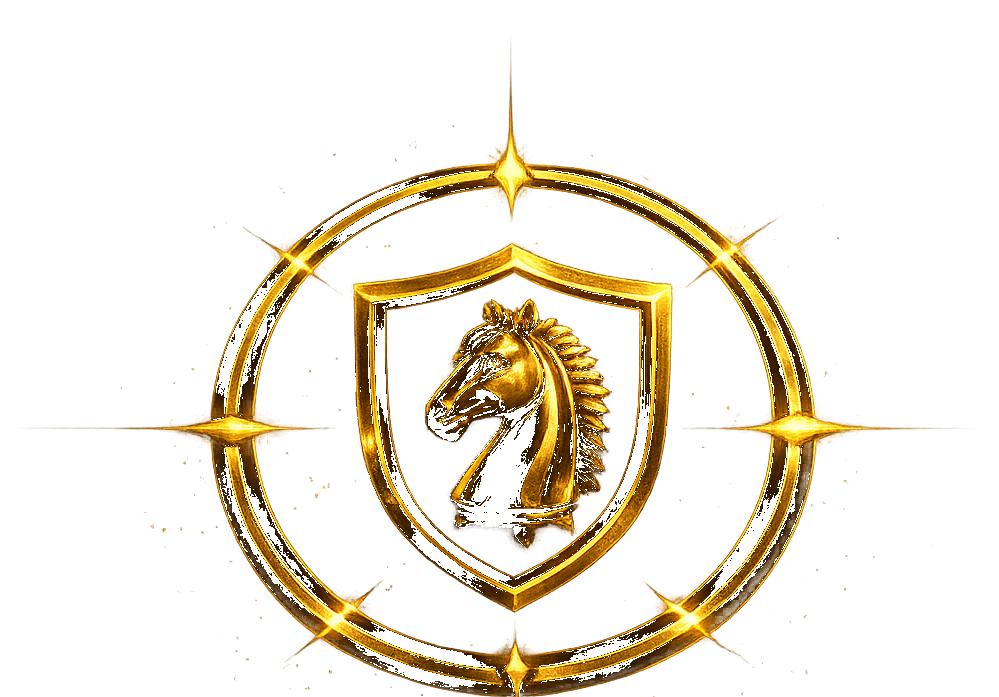
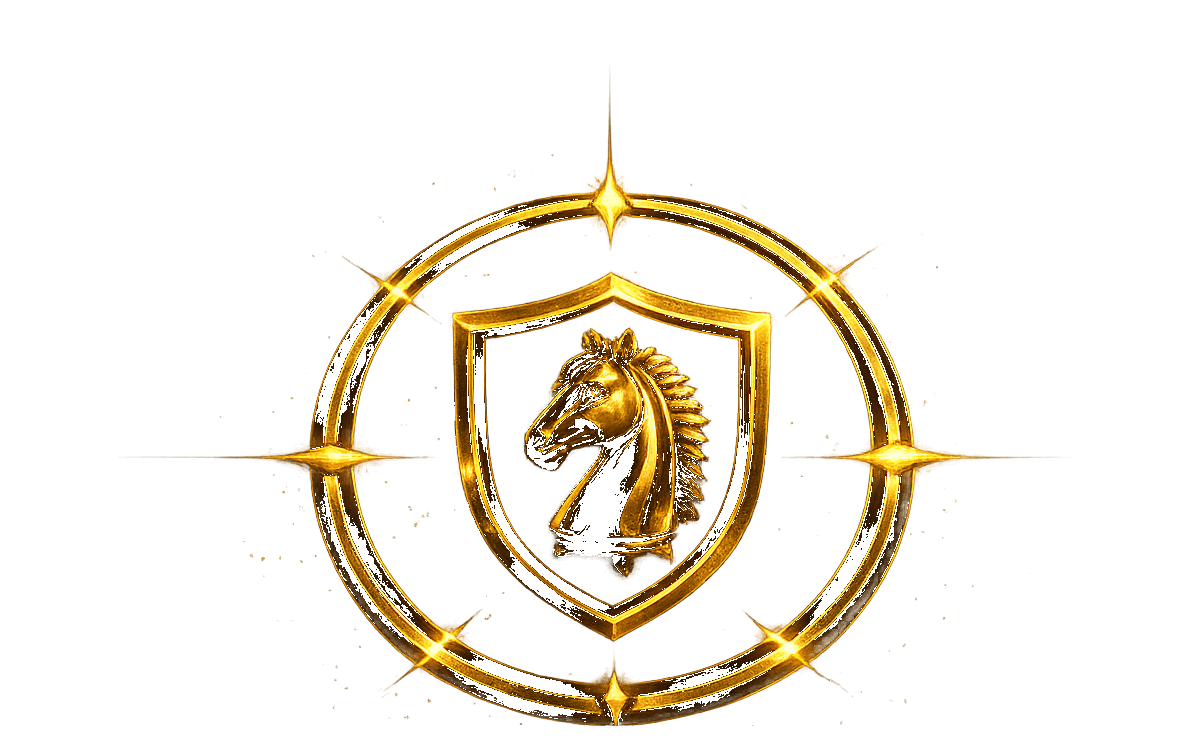
ZChess update 06.06.2026 11:39:14,83

Changed region(s): [[0.1241, 0.1205, 0.8999, 1.0]]

diff --git a/js/config.js b/js/config.js
@@ -26,7 +26,7 @@ window.ZChess.firebaseConfig = {
 // ==========================================
 // APP CONSTANTS
 // ==========================================
-window.ZChess.BUILD = '2361783694983';
+window.ZChess.BUILD = '2416311136411';
 window.ZChess.VERSION = '1.1.5';
 window.ZChess.APP_NAME = 'ZChess';
 window.ZChess.SITE_URL = 'https://zoobik101-hue.github.io/Zchess/';

diff --git a/sw.js b/sw.js
@@ -4,7 +4,7 @@
    Auto-reload when new version detected
    ============================================= */
 
-const CACHE_VERSION = 'zchess-2361783694983';
+const CACHE_VERSION = 'zchess-2416311136411';
 const STATIC_CACHE = `zchess-static-${CACHE_VERSION}`;
 const DYNAMIC_CACHE = `zchess-dynamic-${CACHE_VERSION}`;
 

diff --git a/tools/crop-horse-logo.py b/tools/crop-horse-logo.py
@@ -126,13 +126,28 @@ def trim_shield_nav(rows, cw, ch, shield_ratio=SHIELD_RATIO):
     """Keep shield + ring; drop ZChess text below."""
     shield_h = max(1, int(ch * shield_ratio))
     shield_rows = rows[:shield_h]
-    return trim_rows(shield_rows, cw, shield_h, lum_min=16, pad_ratio_x=0.06, pad_ratio_y=0.05)
+    return trim_rows(shield_rows, cw, shield_h, lum_min=16, pad_ratio_x=0.1, pad_ratio_y=0.06)
+
+
+def pad_symmetric(rows, nw, nh, pad_x_pct=0.1, pad_y_pct=0.05):
+    pad_x = max(12, int(nw * pad_x_pct))
+    pad_y = max(8, int(nh * pad_y_pct))
+    out_w = nw + pad_x * 2
+    blank = b"\x00\x00\x00\x00" * out_w
+    out = [bytearray(blank) for _ in range(pad_y)]
+    for row in rows:
+        padded = bytearray(blank)
+        padded[pad_x * 4 : (pad_x + nw) * 4] = row
+        out.append(padded)
+    out.extend(bytearray(blank) for _ in range(pad_y))
+    return out, out_w, nh + pad_y * 2
 
 
 def main():
     w, h, rows = read_png(SRC)
     cropped, cw, ch = trim_rows(rows, w, h)
     nav_rows, nw, nh = trim_shield_nav(cropped, cw, ch)
+    nav_rows, nw, nh = pad_symmetric(nav_rows, nw, nh, pad_x_pct=0.1, pad_y_pct=0.04)
     write_png(OUT_NAV, nw, nh, nav_rows)
     print(f"source {w}x{h} -> trimmed {cw}x{ch} -> nav {nw}x{nh} -> {OUT_NAV}")
 
